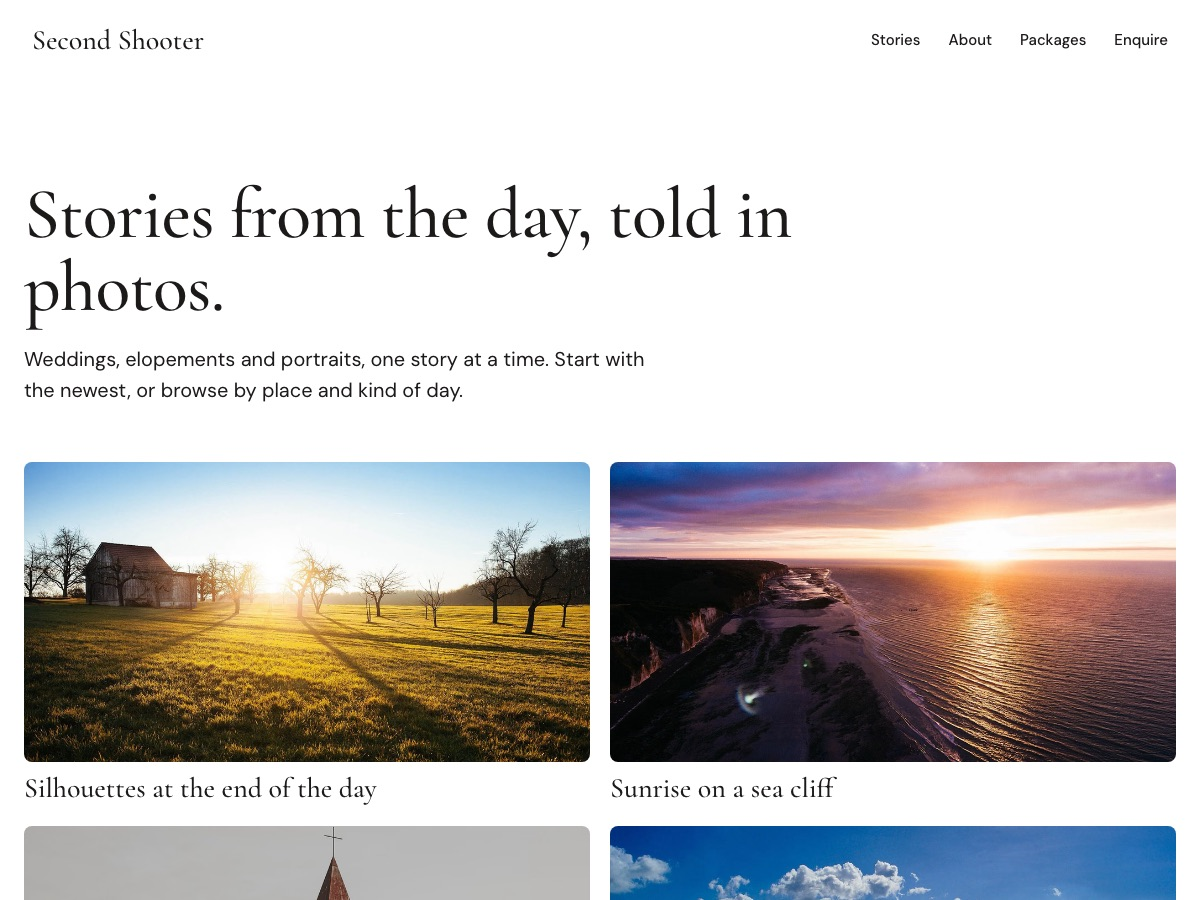
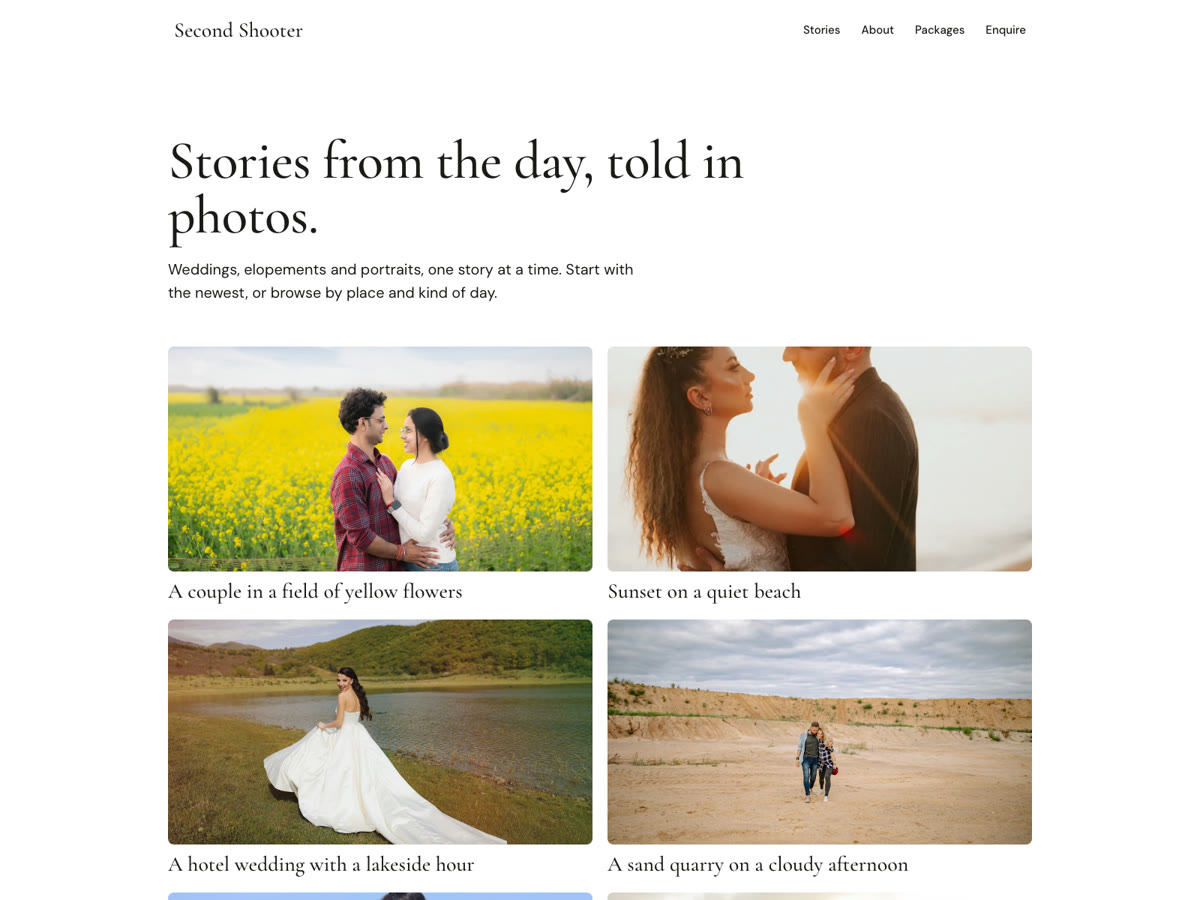
V536: Second Shooter page images from the Pexels build, copy matches the template

diff --git a/second-shooter/index.md b/second-shooter/index.md
@@ -8,7 +8,7 @@ og_image: /second-shooter/home.jpg
 
 # Second Shooter: a photo journal template for Framer
 
-Second Shooter is a template we made for photographers whose stories already live on an old blog: one post per wedding, elopement or place, thirty to eighty photos each. The home page opens on the newest stories as large photo cards, and each story gets a full-width cover, its date and place, and every photo at full width.
+Second Shooter is a template we made for photographers whose stories already live on an old blog: one post per wedding, elopement or place, thirty to eighty photos each. The home page opens on the newest stories as large photo cards, and each story gets a full-width cover, its date and place, and every photo large in the text column with its caption underneath. The sample photos are from Pexels, and the stories and people in them are illustrative.
 
 <img src="/second-shooter/home.jpg" alt="Second Shooter home page: the intro line and the newest stories as large photo cards" width="1200" height="900" style="width:100%;height:auto;border-radius:12px;border:1px solid var(--line)">
 
